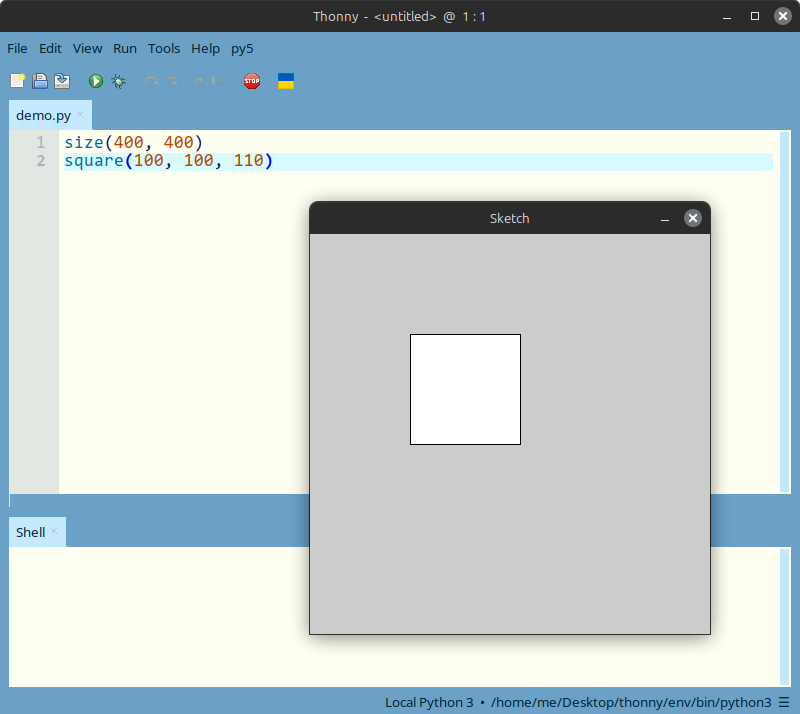
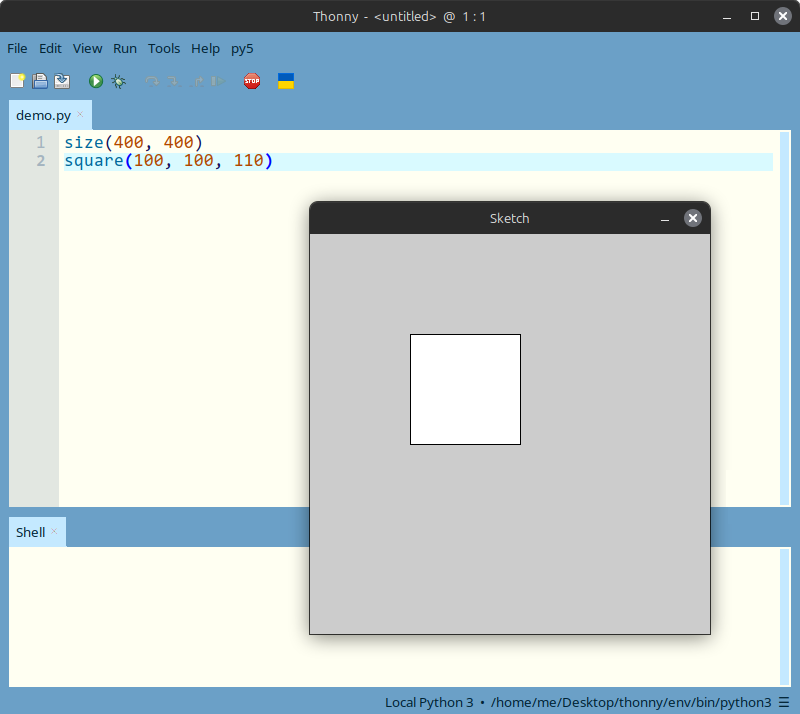
- complete intro section

Changed region(s): [[0.0, 0.6779, 0.4062, 0.7087], [0.875, 0.6779, 1.0, 0.7087]]

diff --git a/marp--noc_py5_slides/deck.md b/marp--noc_py5_slides/deck.md
@@ -34,6 +34,8 @@ _paginate: false
 > https://tisch.nyu.edu/itp/news/fall-2024/daniel-shiffman--itp-faculty-member--launches-new-book---the-nat
 <!--
 - note this is the 2nd edition (no starch press)
+- show of hands: who has worked through any nature of code chapters?
+- for anybody unfamiliar: the book builds up from simple random walks to physics to neural networks & neuroevolution
 - as audience likely knows, this is js-based
 -->
 
@@ -66,7 +68,17 @@ _paginate: false
 
 ---
 
-# Introduction » Installation
+## Introduction » Installation
+
+* Standard Python script (VS Code, PyCharm, terminal, ...)
+* Jupyter Notebook
+* Thonny IDE + py5 plugin
+<!--
+- discuss pros/cons of each:
+- standard -- any editor; requires manual environment/pip setup
+- jupyter -- notebook format mixing different cells; perhaps not your style
+- thonny -- familiar to legacy processing users; not 'browser' based
+-->
 
 ---
 
@@ -130,8 +142,25 @@ _paginate: false
 <!--
 _backgroundColor: #000
 _paginate: false
+_class: lead
+-->
+## ...
+
+---
+
+<!--
+_backgroundColor: #000
+_paginate: false
 -->
 ![bg 50%](setup--08-thonny-activate.png)
+<!--
+- you don't *have to use* imported mode, but this means:
+- no import line(s) required
+- no py5. prefix for every method
+- so, matches* traditional processing and p5.js syntax
+- easier porting (to py5)
+- more beginner-friendly
+-->
 
 ---
 
@@ -140,6 +169,9 @@ _backgroundColor: #000
 _paginate: false
 -->
 ![bg 50%](setup--09-thonny-activate-jdk.png)
+<!--
+- if java is not detected, it'll download and install a local version
+--->
 
 ---
 
@@ -164,6 +196,10 @@ _backgroundColor: #000
 _paginate: false
 -->
 ![bg 50%](setup--12-thonny-run.png)
+<!--
+- just like processing, it has a static mode
+- (of course, there are setup and draw functions for animated sketches)
+-->
 
 ---
 
@@ -171,44 +207,28 @@ _paginate: false
 _backgroundColor: #000
 _paginate: false
 -->
-![bg 50%](setup--13-thonny-run-module.png)
-
----
-
-
-
-
-
-
-
-
-
-
-
-
-
-
-
-
-
-
-
-
-
-
-
-
----
-
-## The Big Picture » The Nature of Code
-
-- Daniel Shiffman's book on simulating natural systems (2024 edition)
-- Randomness » vectors » forces » particles » agents » physics » intelligence
-- All examples written in **p5.js** (JavaScript)
+![bg 50%](setup--13-change-mode.png)
 <!--
-- show of hands: who has worked through any nature of code chapters?
-- the book builds up from simple random walks to neural networks and neuroevolution
+- as i mentioned earlier, there is also a module mode
 -->
+
+---
+
+<!--
+_backgroundColor: #000
+_paginate: false
+-->
+![bg 50%](setup--14-thonny-run-module.png)
+<!--
+- note: import line, py5 prefixes, run_sketch method
+-->
+
+---
+
+
+
+
+
 
 ---
 <!--
@@ -261,66 +281,6 @@ def draw():
 
 ---
 
-# Thonny-py5mode
-<!-- 
-backgroundColor: teal
-color: var(--color-background)
--->
-
----
-
-## Thonny-py5mode » The Working Environment
-
-- A plugin that integrates py5 into the **Thonny** Python editor
-- Successor to the Processing IDE's discontinued *Python Mode*
-- Handles setup for you -- installs a Java Runtime Environment (JRE)
-- Officially maintained under the py5 organisation; recommended as *"the best py5 setup for beginners"*
-<!--
-- thonny is a beginner-focused python ide -- the plugin adapts it for creative coding
-- the jre install is automatic, so students never touch java tooling directly
-- full disclosure: thonny-py5mode is my own project, developed as part of my phd research
--->
-
----
-<!--
-_backgroundColor: white
-_paginate: false
--->
-![bg contain](img_thonny_fractal.png)
-<!--
-- thonny-py5mode in use, rendering an l-system fractal
-- editor left, running sketch window right -- the workflow used for every port in this talk
--->
-
----
-
-## Thonny-py5mode » The py5 Menu
-
-![](img_thonny_menu.png)
-
-- Toggle **Imported mode** (no `import` statements or `py5.` prefixes)
-- *Apply recommended py5 settings* -- Processing-inspired editor theme
-- Colour selector, sketch-folder shortcut, links to reference & cheatsheet
-<!--
-- imported mode is what makes the nature of code ports read so cleanly
-- static mode also works: omit setup/draw entirely for non-animated sketches
--->
-
----
-
-## Thonny-py5mode » Editor Support
-
-![](img_thonny_autocomplete.png)
-
-- Autocompletion and syntax highlighting for py5 commands
-- Colour mixer dockable beside the editor
-- Two-page printable **py5 cheatsheet** for quick reference
-<!--
-- highlighting py5 commands reduces syntactic errors for novices
-- the cheatsheet covers sketch structure, colour, 2d primitives, typography, and control flow
--->
-
----
 
 # Direct Translations
 <!-- 
